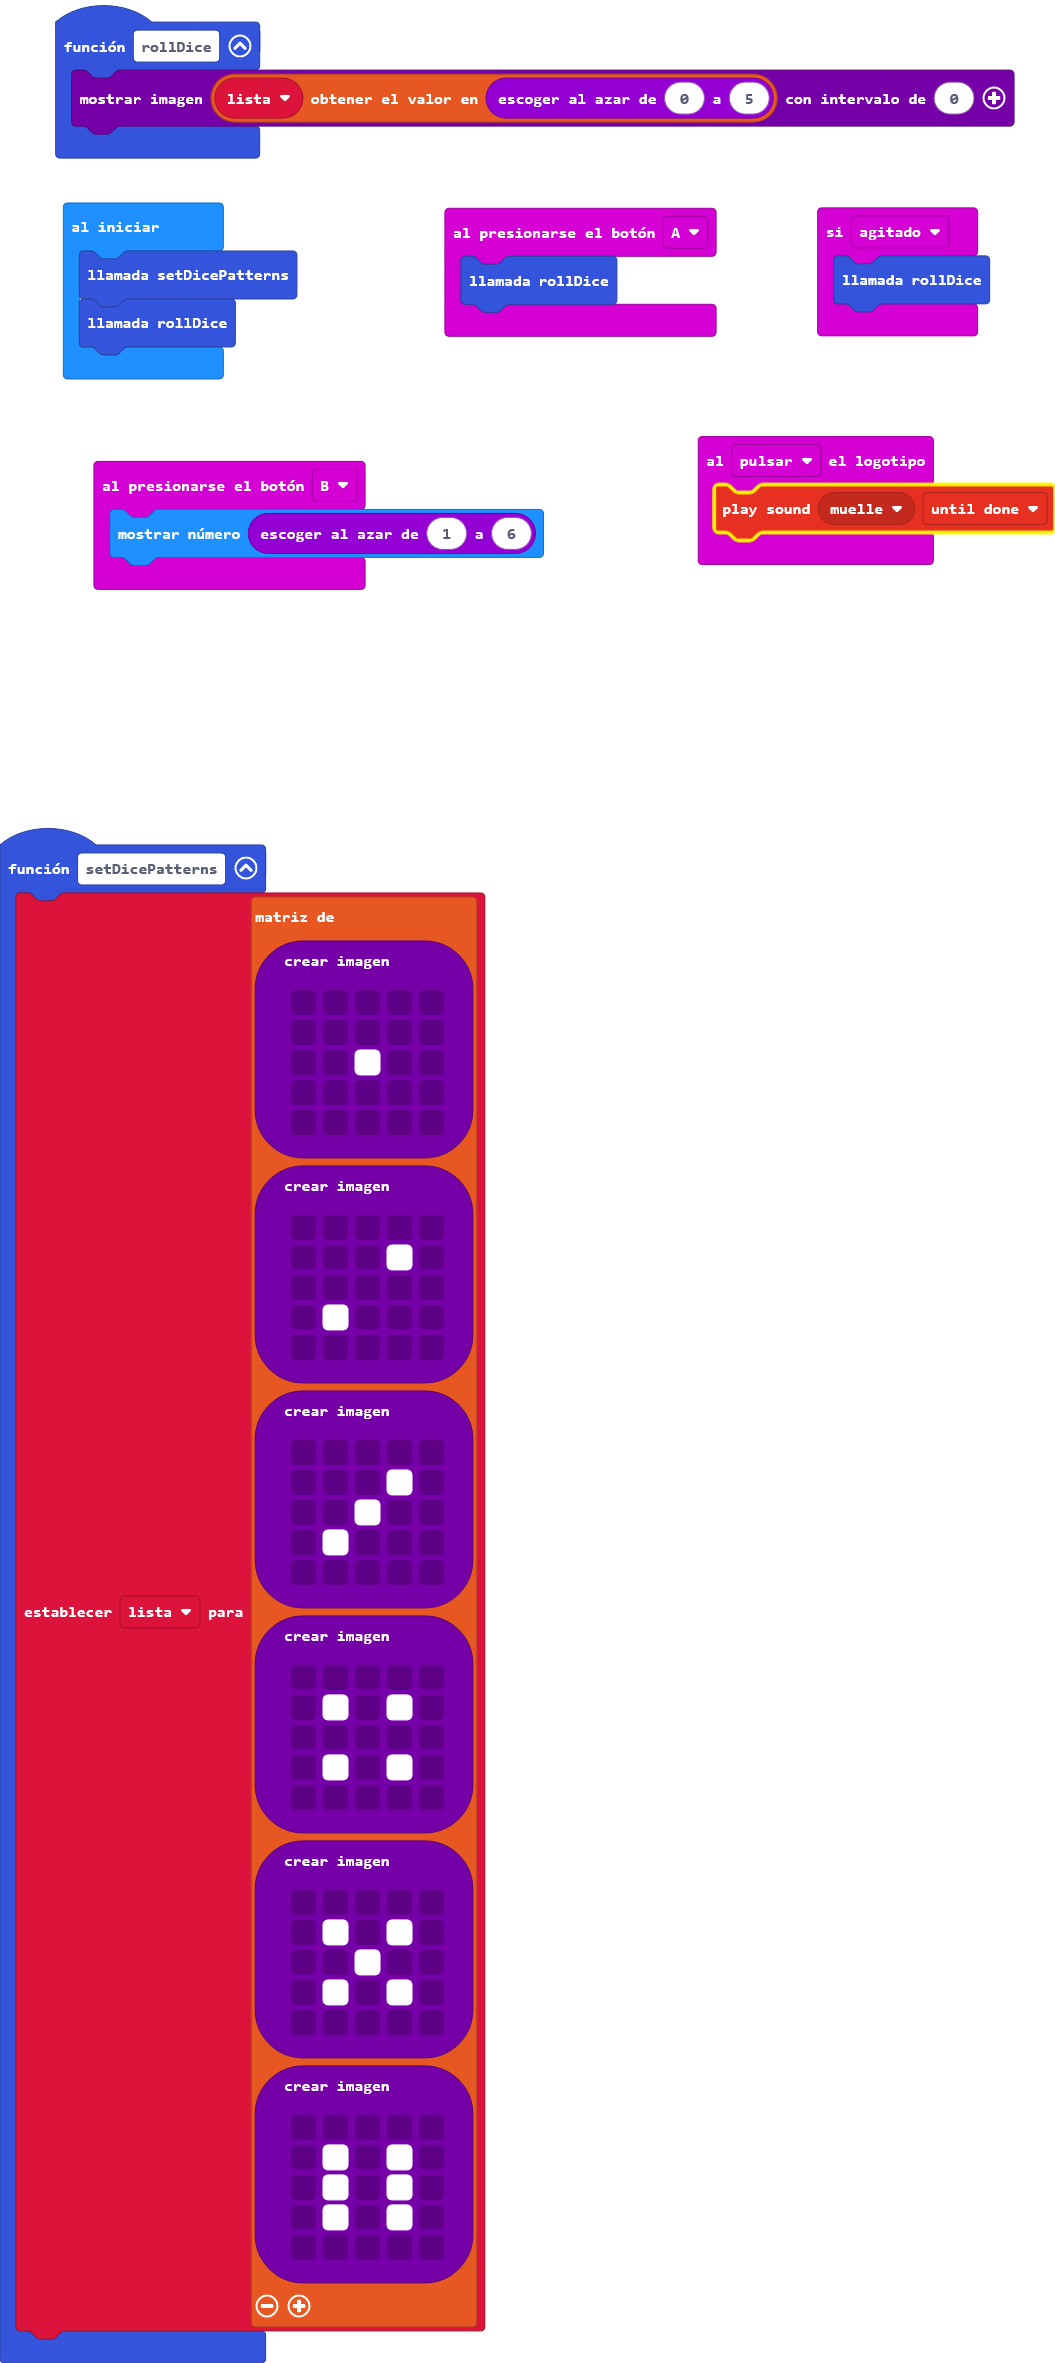
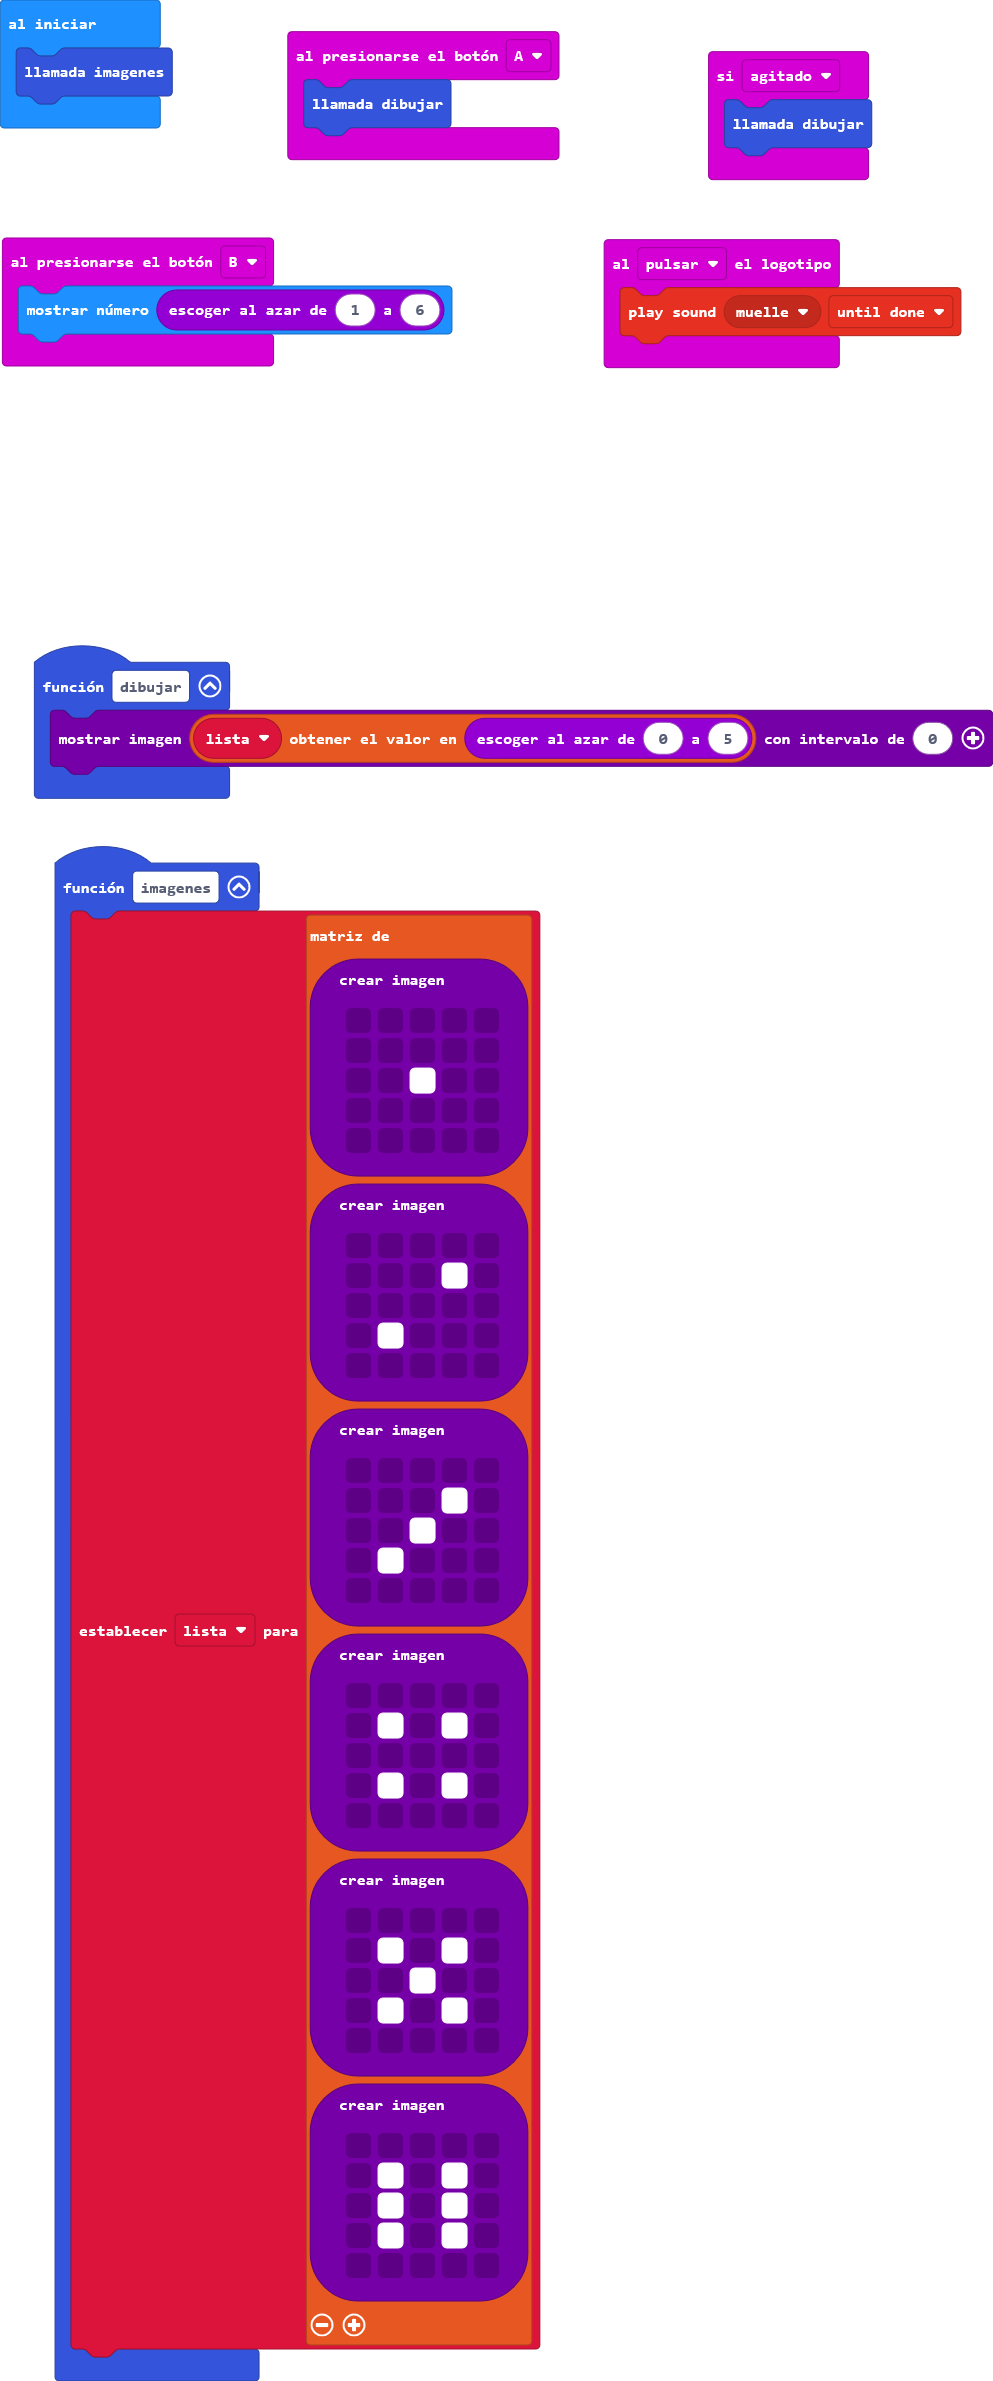
ajsutes

diff --git a/main.ts b/main.ts
@@ -1,4 +1,10 @@
-function setDicePatterns () {
+input.onLogoEvent(TouchButtonEvent.Pressed, function () {
+    music.playSoundEffect(music.builtinSoundEffect(soundExpression.spring), SoundExpressionPlayMode.UntilDone)
+})
+input.onButtonPressed(Button.A, function () {
+    dibujar()
+})
+function imagenes () {
     lista = [
     images.createImage(`
         . . . . .
@@ -44,21 +50,14 @@ function setDicePatterns () {
         `)
     ]
 }
-function rollDice () {
-    lista[randint(0, 5)].showImage(0)
-}
-input.onLogoEvent(TouchButtonEvent.Pressed, function () {
-    music.playSoundEffect(music.builtinSoundEffect(soundExpression.spring), SoundExpressionPlayMode.UntilDone)
-})
-input.onButtonPressed(Button.A, function () {
-    rollDice()
-})
 input.onGesture(Gesture.Shake, function () {
-    rollDice()
+    dibujar()
 })
 input.onButtonPressed(Button.B, function () {
     basic.showNumber(randint(1, 6))
 })
+function dibujar () {
+    lista[randint(0, 5)].showImage(0)
+}
 let lista: Image[] = []
-setDicePatterns()
-rollDice()
+imagenes()
